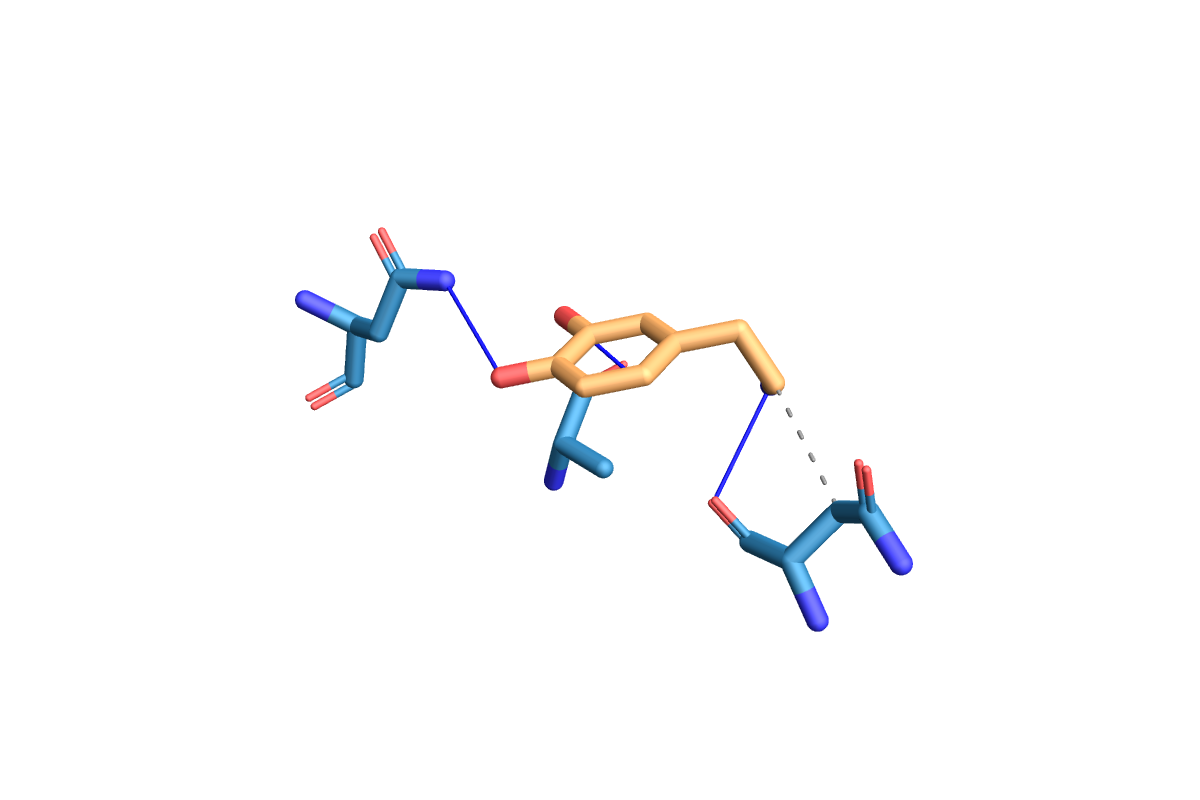
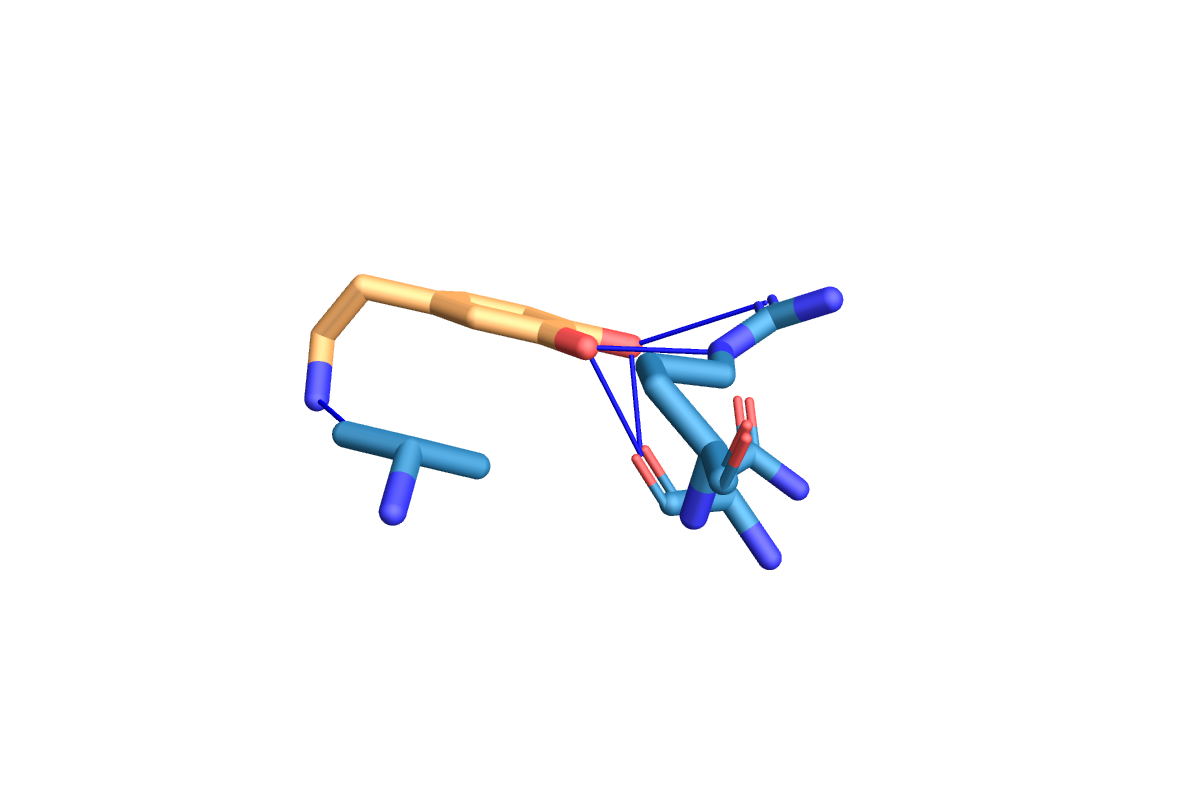
plip tool class works

Changed region(s): [[0.2467, 0.2812, 0.7708, 0.7812]]

diff --git a/used_functions/classes/plip_tool.py b/used_functions/classes/plip_tool.py
@@ -1,13 +1,16 @@
 import subprocess
-
+from time import sleep
+import os
 class Plip():
-    def __init__(self, path_to_plip, path_to_pro):
-        self.path_to_plip = path_to_plip
+    def __init__(self, venv_path, path_to_pro, project_name):
+        self.path_to_venv = venv_path
         self.path_to_pro = path_to_pro
+        self.project_name = project_name
+        
 
     def run(self):
-        path = "../../static/history/4zel.pdb/pro.pdb"
-        subprocess.run(["python", "../../venv_website/lib/python3.10/site-packages/plip/plipcmd.py", "-f", path, "-p", "--peptides", "1 2 3"])
+        path = f"static/history/{self.project_name}/pro.pdb"
+        subprocess.run(["python3", f"{self.path_to_venv}/lib/python3.11/site-packages/plip/plipcmd.py", "-f", path, "-p", "--peptides", "1","2", "3", "-o", f"static/history/{self.project_name}"])
 
-plip = Plip("pass", "lol")
-plip.run()
+
+
